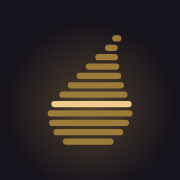
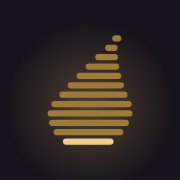
feat: light the woven flame's first year and tell its story on About
The woven flame's lit thread was fixed at the eighth thread from the top,
a placement chosen for looks with no meaning in the cycle. The years now
count up from the base, as weft is laid on a loom, and the mark lights the
bottom thread: the first year, the year of birth, where all three rows
begin with the birth date itself.

- Light the bottom thread in SoliniMark, icon.svg, favicon.ico and
  apple-icon.png.
- Add a year prop to SoliniMark. With a reading, the home page flame lights
  the visitor's year now; a newly lit thread kindles in at once after the
  entrance has played.
- Build the Menu button's close mark from the lit thread and the one above
  it, since nothing sits below the bottom thread.
- Add "The woven flame" to About: the twelve threads, chong kiet, the lit
  first year, and a plain note that the design is Solini's own rather than
  a traditional Khmer symbol.
- Update the design language and design spec.

Claude-Session: https://claude.ai/code/session_01EvPYLU9MQLUFTxt5CbhoF3

Changed region(s): [[0.2778, 0.5556, 0.75, 0.6111], [0.3333, 0.75, 0.6389, 0.8056]]

diff --git a/src/components/ui/solini-mark.tsx b/src/components/ui/solini-mark.tsx
@@ -8,6 +8,11 @@
  * with one year's thread lit. The threads follow chong kiet, Khmer ikat, in
  * which the pattern is dyed into the weft before the cloth is woven.
  *
+ * The cycle counts up the flame, as the weave is laid: the bottom thread is
+ * the first year, the year of birth, and the tip the twelfth. On its own the
+ * mark lights the first year, the one made from the birth date itself.
+ * "year" lights another, as the home page does with the visitor's year now.
+ *
  * The flame is a living surface and never quite still. The whole flame
  * drifts slowly from side to side, its threads sway in a ripple that climbs
  * from the base to the tip, and the lit thread's glow breathes.
@@ -57,8 +62,16 @@ export const MARK_THREADS: readonly MarkThread[] = [
   { x: 17.77, y: 53.52, width: 22.48 },
 ];
 
-/** The lit thread, the eighth from the top, where the flame is widest. */
-export const MARK_LIT_THREAD = 7;
+/** The thread for a year of the cycle (0 is the first year), counted up from the base. */
+export function markThread(year: number) {
+  return MARK_THREADS.length - 1 - (((year % 12) + 12) % 12);
+}
+
+/** The thread the mark lights on its own: the bottom one, the first year. */
+export const MARK_LIT_THREAD = markThread(0);
+
+/** When the weave's light has kindled; a later change of year kindles at once. */
+const KINDLED_MS = 1950;
 
 /** How far apart the threads start weaving, bottom thread first. */
 const WEAVE_STAGGER_MS = 70;
@@ -76,16 +89,16 @@ export function threadSway(i: number) {
   };
 }
 
-/** The two threads that become the menu's close mark: the lit one and the one below it. */
-export const MENU_CLOSE_THREADS = [MARK_LIT_THREAD, MARK_LIT_THREAD + 1] as const;
+/** The two threads that become the menu's close mark: the lit one and the one above it. */
+export const MENU_CLOSE_THREADS = [MARK_LIT_THREAD - 1, MARK_LIT_THREAD] as const;
 
 /** How long each stroke of the close mark is, across the 64-unit icon. */
 const CLOSE_STROKE = 44;
 
 /**
  * Where thread `i` goes when the flame in the Menu button turns into a close
- * mark (`.menu-thread` in globals.css). The lit thread and the one below it
- * swing to the center and cross; the rest fade away down the flame, nearest
+ * mark (`.menu-thread` in globals.css). The lit thread and the one above it
+ * swing to the center and cross; the rest fade away up the flame, nearest
  * the lit thread first, and come back in the reverse order on close.
  */
 export function menuThreadClose(i: number) {
@@ -143,10 +156,13 @@ const noSubscription = () => () => {};
 export function SoliniMark({
   woven = false,
   reactive = false,
+  year = 0,
   className = "",
 }: {
   woven?: boolean;
   reactive?: boolean;
+  /** The year of the cycle to light, from 0 (the year of birth) to 11. */
+  year?: number;
   className?: string;
 }) {
   const glowId = useId();
@@ -157,6 +173,13 @@ export function SoliniMark({
   // Read on the client only ("none" on the server), so the two agree.
   const support = useSyncExternalStore(noSubscription, tiltSupport, () => "none" as const);
   const [answer, setAnswer] = useState<"unasked" | "granted" | "denied">("unasked");
+  // Once the entrance has played, a newly lit year kindles without waiting.
+  const [kindled, setKindled] = useState(!woven);
+  useEffect(() => {
+    if (!woven) return;
+    const timer = setTimeout(() => setKindled(true), KINDLED_MS);
+    return () => clearTimeout(timer);
+  }, [woven]);
   const tilt: TiltAccess =
     !reactive || prefersReducedMotion || support === "none"
       ? "none"
@@ -265,7 +288,8 @@ export function SoliniMark({
     };
   }, [reactive, prefersReducedMotion, tilt]);
 
-  const lit = MARK_THREADS[MARK_LIT_THREAD];
+  const litThread = markThread(year);
+  const lit = MARK_THREADS[litThread];
   const last = MARK_THREADS.length - 1;
   const rx = MARK_THREAD_HEIGHT / 2;
   const mark = (
@@ -296,8 +320,11 @@ export function SoliniMark({
                   rx={rx}
                   style={{ "--weave-delay": `${(last - i) * WEAVE_STAGGER_MS}ms` } as React.CSSProperties}
                 />
-                {i === MARK_LIT_THREAD && (
-                  <g className="mark-light">
+                {i === litThread && (
+                  <g
+                    className="mark-light"
+                    style={kindled ? ({ "--kindle-delay": "0ms" } as React.CSSProperties) : undefined}
+                  >
                     <rect
                       className="mark-glow fill-gold-deep"
                       filter={`url(#${glowId})`}

diff --git a/src/components/ui/__tests__/solini-mark.test.tsx b/src/components/ui/__tests__/solini-mark.test.tsx
@@ -10,6 +10,7 @@ import {
   MARK_THREADS,
   MENU_CLOSE_THREADS,
   SoliniMark,
+  markThread,
   menuThreadClose,
   threadSway,
 } from "../solini-mark";
@@ -20,6 +21,17 @@ describe("SoliniMark", () => {
     const { container } = render(<SoliniMark />);
     expect(container.querySelectorAll(".mark-thread")).toHaveLength(12);
     expect(container.querySelectorAll(".mark-light rect.fill-gold-light")).toHaveLength(1);
+  });
+
+  it("counts the years up from the base and lights the first year on its own", () => {
+    expect(MARK_LIT_THREAD).toBe(MARK_THREADS.length - 1);
+    expect(markThread(0)).toBe(11);
+    expect(markThread(11)).toBe(0);
+    expect(markThread(12)).toBe(11);
+    const litY = (container: HTMLElement) =>
+      Number(container.querySelector(".mark-light rect.fill-gold-light")?.getAttribute("y"));
+    expect(litY(render(<SoliniMark />).container)).toBe(MARK_THREADS[11].y);
+    expect(litY(render(<SoliniMark year={3} />).container)).toBe(MARK_THREADS[8].y);
   });
 
   it("is decorative, since the name Solini is always written beside it", () => {
@@ -37,16 +49,16 @@ describe("SoliniMark", () => {
     expect(threads[0].style.getPropertyValue("--weave-delay")).toBe("770ms");
   });
 
-  it("turns into a close mark in the Menu button from the lit thread and the one below", () => {
-    expect(MENU_CLOSE_THREADS).toEqual([MARK_LIT_THREAD, MARK_LIT_THREAD + 1]);
-    const [lit, below] = MENU_CLOSE_THREADS.map(menuThreadClose);
+  it("turns into a close mark in the Menu button from the lit thread and the one above", () => {
+    expect(MENU_CLOSE_THREADS).toEqual([MARK_LIT_THREAD - 1, MARK_LIT_THREAD]);
+    const [above, lit] = MENU_CLOSE_THREADS.map(menuThreadClose);
     expect(lit["--open"]).toContain("rotate(45deg)");
-    expect(below["--open"]).toContain("rotate(-45deg)");
+    expect(above["--open"]).toContain("rotate(-45deg)");
     expect(lit["--open-opacity"]).toBe("1");
     // Every other thread fades, nearest the lit thread first
     const others = MARK_THREADS.map((_, i) => i).filter((i) => !MENU_CLOSE_THREADS.includes(i as never));
     for (const i of others) expect(menuThreadClose(i)["--open-opacity"]).toBe("0");
-    expect(parseFloat(menuThreadClose(MARK_LIT_THREAD - 1)["--open-delay"])).toBeLessThan(
+    expect(parseFloat(menuThreadClose(MARK_LIT_THREAD - 2)["--open-delay"])).toBeLessThan(
       parseFloat(menuThreadClose(0)["--open-delay"])
     );
   });

diff --git a/src/app/about/page.tsx b/src/app/about/page.tsx
@@ -1,6 +1,7 @@
 import type { Metadata } from "next";
 import Link from "next/link";
 import { SectionDivider } from "@/components/ui/section-divider";
+import { SoliniMark } from "@/components/ui/solini-mark";
 import { InfoPage, MORE_LINK, MorePages, PillLink, Section } from "@/components/ui/page-parts";
 import { YEAR_TIERS } from "@/lib/numerology/interpretation-data";
 import { ABOUT_DESCRIPTION, ABOUT_TITLE, SITE_NAME, SITE_TAGLINE } from "@/lib/site-copy";
@@ -116,6 +117,32 @@ export default function AboutPage() {
             What each number and life area means
           </Link>
           .
+        </p>
+      </Section>
+
+      <SectionDivider />
+
+      <Section title="The woven flame" id="the-logo">
+        <SoliniMark className="mx-auto h-20 w-20" />
+        <p>
+          Solini&apos;s mark is a flame woven from twelve threads, one for
+          each year of your cycle. It takes its method from <em>chong kiet</em>,
+          Khmer ikat, in which weavers dye the pattern into each thread before
+          the cloth is woven. The picture is built thread by thread, the way a
+          cycle is built year by year.
+        </p>
+        <p>
+          The years count up from the base, the way weft is laid on a loom.
+          The bright thread at the bottom is the first year: the year you were
+          born, the column where all three rows begin with your birth month,
+          your animal and your weekday. Its life area is Self. Once you&apos;ve
+          read your cycle, the flame on the home page lights your year now
+          instead.
+        </p>
+        <p>
+          The flame is Solini&apos;s own design, not a traditional Khmer
+          symbol. Its tie to Khmer weaving is in how it&apos;s made, thread by
+          thread, not in a pattern taken from any cloth.
         </p>
       </Section>
 

diff --git a/src/components/home-client.tsx b/src/components/home-client.tsx
@@ -393,13 +393,14 @@ export function HomeClient({ searchParams }: Props) {
     <MotionConfig reducedMotion="user">
     <main className="safe-gutter flex flex-1 flex-col items-center pt-9 [@media(max-height:700px)]:pt-5 sm:pt-16 pb-[max(4rem,calc(env(safe-area-inset-bottom)+2rem))]">
       {/* Entrance: the woven flame weaves itself in as the title surfaces out
-          of the dark, then each block follows. */}
+          of the dark, then each block follows. With a reading, the flame
+          lights the visitor's year now. */}
       {/* The signature: the woven flame and the name side by side, a gold
           hairline between them, and the brand line below between hairlines
           (which phones have no room for). Entrance: the flame weaves itself
           in as the name kindles, then the rest rises in turn. */}
       <div className="mt-7 sm:mt-0 [@media(max-height:700px)]:mt-6 flex items-center gap-3 sm:gap-5">
-        <SoliniMark woven reactive className="h-14 w-14 sm:h-24 sm:w-24 [@media(max-height:700px)]:h-11 [@media(max-height:700px)]:w-11" />
+        <SoliniMark woven reactive year={result ? getCycleIndex(result.birthYear, activeYear) : 0} className="h-14 w-14 sm:h-24 sm:w-24 [@media(max-height:700px)]:h-11 [@media(max-height:700px)]:w-11" />
         <span
           aria-hidden="true"
           className="rise h-14 w-px bg-gradient-to-b from-transparent via-gold/60 to-transparent sm:h-20"

diff --git a/src/app/globals.css b/src/app/globals.css
@@ -748,7 +748,8 @@ body {
 }
 /* The woven flame (SoliniMark) weaves itself in while the title kindles:
  * each thread is drawn across from the left, bottom thread first as weft is
- * laid on a loom, then the year's thread lights. */
+ * laid on a loom, then the year's thread lights. When the lit year changes
+ * later, the new thread kindles at once. */
 @keyframes weave {
   from { opacity: 0; transform: scaleX(0); }
   to { opacity: 1; transform: none; }
@@ -764,7 +765,7 @@ body {
   animation-delay: var(--weave-delay, 0ms);
 }
 .mark-woven .mark-light {
-  animation: mark-kindle 700ms var(--ease-enter) 1250ms both;
+  animation: mark-kindle 700ms var(--ease-enter) var(--kindle-delay, 1250ms) both;
 }
 .mark-glow {
   opacity: var(--breathe-rest);
@@ -881,7 +882,7 @@ button:not(:disabled),
   transition-delay: calc(60ms + var(--i, 0) * 35ms);
 }
 /* The flame in the Menu button turns into a close mark: the lit thread and
- * the one below swing to the center and cross while the others fade down the
+ * the one above swing to the center and cross while the others fade up the
  * flame (menuThreadClose() sets where each goes and when). */
 .menu-thread {
   transform-box: fill-box;

diff --git a/src/app/about/__tests__/page.test.tsx b/src/app/about/__tests__/page.test.tsx
@@ -18,4 +18,10 @@ describe("About page", () => {
     expect(screen.getByRole("link", { name: "Khmer Rouge years" })).toHaveAttribute("href", "/heritage#khmer-rouge");
     expect(screen.getByRole("link", { name: "Our family's story" })).toHaveAttribute("href", "/heritage#our-family");
   });
+
+  it("tells the logo's story and says the design is Solini's own", () => {
+    render(<AboutPage />);
+    expect(screen.getByRole("heading", { name: "The woven flame" })).toBeInTheDocument();
+    expect(screen.getByText(/Solini's own design, not a traditional Khmer/)).toBeInTheDocument();
+  });
 });

diff --git a/src/components/site-menu.tsx b/src/components/site-menu.tsx
@@ -170,7 +170,7 @@ export function SiteMenu() {
             "pressable active:scale-[0.97]",
           ].join(" ")}
         >
-          {/* The woven flame; open, its lit thread and the one below cross
+          {/* The woven flame; open, its lit thread and the one above cross
               into a close mark while the others fade away or fly into the
               list as its underlines. */}
           <svg viewBox="0 0 64 64" className="menu-flame h-6 w-6 overflow-visible" aria-hidden="true">

diff --git a/docs/standards/design-language.md b/docs/standards/design-language.md
@@ -95,7 +95,7 @@ Use tokens through Tailwind classes (`text-ink`, `bg-manuscript`, `border-border
 - Selected or "now" animals are `text-gold-deep`; others are `text-ink-light` or `text-gold`.
 - **Tier symbols** (● ◕ ◑ ◔ ⊙) are drawn with `TierIcon` (`components/ui/tier-icon.tsx`), an SVG that is always `aria-hidden="true"`, with the meaning carried by the parent's `aria-label` or visible text. Don't render the Unicode glyphs on the page: each comes from whichever font has it, so they show at different sizes side by side (on iOS, ● is about half the size of ◑). The Satori preview images are the exception, since they can't use the component.
 - Interface glyphs (close, share, arrows) are simple inline SVG strokes that match the zodiac line weight. Do not add an icon library.
-- **The app icon** (`src/app/icon.svg`, with `favicon.ico` and `apple-icon.png` rendered from it) is the woven flame: twelve gold threads, one for each year of the cycle, laid one above the next so that together they make a flame leaning right, with one thread lit for "now". The threads follow *chong kiet*, Khmer ikat, in which the pattern is dyed into the weft before the cloth is woven. Keep exactly twelve threads with rounded ends, and keep the lit one the eighth from the top. Change all three files together; the Apple icon fills its square with the page color, since iOS rounds the corners itself.
+- **The app icon** (`src/app/icon.svg`, with `favicon.ico` and `apple-icon.png` rendered from it) is the woven flame: twelve gold threads, one for each year of the cycle, laid one above the next so that together they make a flame leaning right, with one thread lit. The threads follow *chong kiet*, Khmer ikat, in which the pattern is dyed into the weft before the cloth is woven. The years count up from the base, as weft is laid, and the lit thread is the bottom one: the first year, the year of birth, where all three rows begin with the birth date itself. Keep exactly twelve threads with rounded ends, and keep the bottom one lit. About tells this story under The woven flame, and says the design is Solini's own. Change all three files together; the Apple icon fills its square with the page color, since iOS rounds the corners itself.
 
 ### The lantern motif
 
@@ -104,7 +104,7 @@ A lantern is Solini's one central image: each year of the cycle is a light, and 
 - **A year's number, shown as a mark, is a threaded orb** (`.wheel-orb` with `data-tier`, and a `.wheel-thread` inside): an opaque, matte dark sphere, softly shaded from above, that lets no light through, backlit by its tier's lantern light, which glows close around its edge from behind; a warm gold hairline edge; and, under the number, one hand-dyed thread in its tier's color, like the threads of the woven flame. Threads fade at both ends and neighbors differ a little in length and place, so the ring reads as woven by hand, not as a gauge. The backlight stays close to the orb rather than washing the wheel. This year's thread is lit `gold-light`, as the flame's lit thread is. It is used on the cycle wheel, on What the numbers mean and on the share images (`threadedOrb()` in `og-theme.ts`). Zero is an unlit niche with a short, faint thread. Numbers inside running text, tables and the worked rows on How your cycle is made stay plain, because they are arithmetic, not readings.
 - **The setting is lantern light:** the dusk sky's glows, the lit input wells, the three lantern stops of the total score, and gold glows that breathe.
 - **In words,** "lantern" appears in the brand line, on About and in the home page's closing line. Don't add it to buttons, labels or headings that must say plainly what they do: "Reveal my cycle" stays plain. The not-found page ("No lantern here") is the one playful use.
-- **The woven flame is the only drawn image of the lantern's light.** It appears as the app icon, above the title on the home page (`SoliniMark woven reactive`, which weaves itself in, bottom thread first, as the title kindles, then keeps drifting and swaying and answers the pointer, the phone's tilt and the scroll) and beside the Solini link at the top of the other pages. Don't add other lantern or flame illustrations or icons; one image used everywhere stops meaning anything.
+- **The woven flame is the only drawn image of the lantern's light.** It appears as the app icon, above the title on the home page (`SoliniMark woven reactive`, which weaves itself in, bottom thread first, as the title kindles, then keeps drifting and swaying and answers the pointer, the phone's tilt and the scroll; with a reading it lights the visitor's year now, counted up from the base, and a newly lit thread kindles in), beside the logo's story on About and beside the Solini link at the top of the other pages. Don't add other lantern or flame illustrations or icons; one image used everywhere stops meaning anything.
 
 ## Interaction
 
@@ -205,7 +205,7 @@ Every change of state uses one of these. Old content leaves quickly (`--duration
 | Transition | Where | Behavior |
 |------------|-------|----------|
 | Page change | Every route change (`src/app/template.tsx`) | The page being left fades out in 150ms; the new page rises 8px and fades in over 400ms. Named elements inside a page keep their own transitions. The new page lands already at its top, or at the linked section, inside the transition: `data-scroll-behavior="smooth"` on `<html>` tells Next.js to switch smooth scrolling off during navigation, so the page never glides there afterward. |
-| Menu | The site menu (`SiteMenu`, `.menu-panel` in globals.css) | The list grows from the Menu button's corner (scale 0.96 to 1, rising 6px) and fades in; each line then settles in 35ms after the one above it, over 400ms. The button wears the woven flame: on open, the other threads fade away down the flame, nearest the lit thread first, while the lit thread and the one below it swing to the center and cross into a close mark (`menuThreadClose()`, 400ms); closing plays it back in 250ms. Five of the fading threads (`MENU_LINK_THREADS`) fly from the button into the list instead and stretch into the links' underlines (500ms on `--ease-standard`, `useThreadFlight` in `site-menu.tsx`); the current page's underline is `gold-deep`, and the others brighten on hover. On close the underlines fold away with the list. It folds away in 150ms, all at once. |
+| Menu | The site menu (`SiteMenu`, `.menu-panel` in globals.css) | The list grows from the Menu button's corner (scale 0.96 to 1, rising 6px) and fades in; each line then settles in 35ms after the one above it, over 400ms. The button wears the woven flame: on open, the other threads fade away up the flame, nearest the lit thread first, while the lit thread and the one above it swing to the center and cross into a close mark (`menuThreadClose()`, 400ms); closing plays it back in 250ms. Five of the fading threads (`MENU_LINK_THREADS`) fly from the button into the list instead and stretch into the links' underlines (500ms on `--ease-standard`, `useThreadFlight` in `site-menu.tsx`); the current page's underline is `gold-deep`, and the others brighten on hover. On close the underlines fold away with the list. It folds away in 150ms, all at once. |
 | Reveal | Disclosures and anything that appears in the flow of the page: the New Year toggle's "Change" and its summary line, the total score's scale, the date form's derived zodiac line and its error messages, the comparison's "How to read this", and the one-time update note (`<Reveal>` in `components/ui/reveal.tsx`) | The page takes its new shape in one layout. Content below then slides from where it was to its new place (`transform`), every card around the disclosure grows by sweeping its bottom edge with a rounded `clip-path`, and the content is wiped open with the same sweep while it fades and settles in. Opening takes 400ms, closing 250ms, both on `--ease-standard` so the motion starts gently instead of leaping. Closing plays the glide back and only then lets the page shrink; toggling mid-way reverses it from where it is. Closed content takes no space and is inert. Content that goes away when closed (a fixed error) keeps showing while it folds, through `useLastPresent`. |
 | Settle in | Status messages in a line that already holds their space: share and copy messages (`.animate-settle-in`) | Fades in and rises 4px over 250ms. A status message is keyed so each new one settles in. Anything that would push content down uses Reveal instead. |
 | Hint crossfade | Text that changes with a state, such as the hint under the wheel | Every version shares one grid cell, so the line keeps the height of the longest and nothing below moves; the versions crossfade over 250ms. |

diff --git a/docs/design-spec.md b/docs/design-spec.md
@@ -338,7 +338,7 @@ Motion tokens, the motion rules, the living surfaces (breathing glows, scroll we
 
 | State | Design |
 |-------|--------|
-| First visit (no data) | The title is a signature: the woven flame and "Solini" side by side, a fading gold hairline between them, and "Khmer Numerology" in gold label type under the name. The flame weaves itself in, thread by thread from the bottom, and its year's thread lights as the name kindles out of the dark over the dusk sky; afterward the flame never quite stops: it drifts and sways gently, leans toward the pointer, stays upright as the phone tilts (after one tap on the flame where the browser asks), and stretches with the scroll, with the form card centered beneath it; the whole form fits on the first screen of a phone. The brand line "A lantern for every year in your cycle" sits centered under the signature in Cormorant Garamond italic, between two fading hairlines from 640px (phones have no room for them); it takes the place of the ◇ divider. The card asks one question, "When were you born?", with one line under it saying what the visitor gets ("See a luck number for every year of your 12-year cycle, from Khmer numerology."), large fields and one solid gold button. The New Year choice rests as one line ("Counted from Khmer New Year", with Change) that opens by itself when the choice changes the animal. Text on the form is 14px or larger. |
+| First visit (no data) | The title is a signature: the woven flame and "Solini" side by side, a fading gold hairline between them, and "Khmer Numerology" in gold label type under the name. The flame weaves itself in, thread by thread from the bottom, and its bottom thread, the first year, lights as the name kindles (once there is a reading, the visitor's year now lights instead, counted up from the base) out of the dark over the dusk sky; afterward the flame never quite stops: it drifts and sways gently, leans toward the pointer, stays upright as the phone tilts (after one tap on the flame where the browser asks), and stretches with the scroll, with the form card centered beneath it; the whole form fits on the first screen of a phone. The brand line "A lantern for every year in your cycle" sits centered under the signature in Cormorant Garamond italic, between two fading hairlines from 640px (phones have no room for them); it takes the place of the ◇ divider. The card asks one question, "When were you born?", with one line under it saying what the visitor gets ("See a luck number for every year of your 12-year cycle, from Khmer numerology."), large fields and one solid gold button. The New Year choice rests as one line ("Counted from Khmer New Year", with Change) that opens by itself when the choice changes the animal. Text on the form is 14px or larger. |
 | Any reading (submitted, saved or shared) | The form blooms into the reading card, which opens on this year's reading: number, tier, life area, description and guidance, then the day the next year's reading begins ("Your 2027 reading begins on July 24.") with that year's number, tier and life area, so the visitor knows when to come back. A February 29 birthday turns on March 1 in common years. Below `lg` a "Year / Cycle" switch at the top of the card swaps it for the wheel and timeline in the same place, with the selection glide and a crossfade; from `lg` the wheel sits beside it. |
 | Returning visitor, date saved before the 2026 changes | A `glass` note sits above the reading card: "Your reading has changed a little". It says each cycle year now begins on the birthday. If Khmer New Year changes this date's animal and the visitor never chose a rule, it also names both animals. "Got it" (44px, the shared pressed state) dismisses it for good and moves focus to the reading card. It is in the page flow, never an overlay, and is announced through a polite live region. Dates saved through the form after the change never get it (`UpdateNotice`, `khmer-numerology:update-2026-notice-seen`). |
 | Zero year selected | The orb is an unlit niche (`tier-zero`) with its number in `ink-light`, and the ⊙ symbol marks it. Guidance text emphasizes transition and preparation. |
